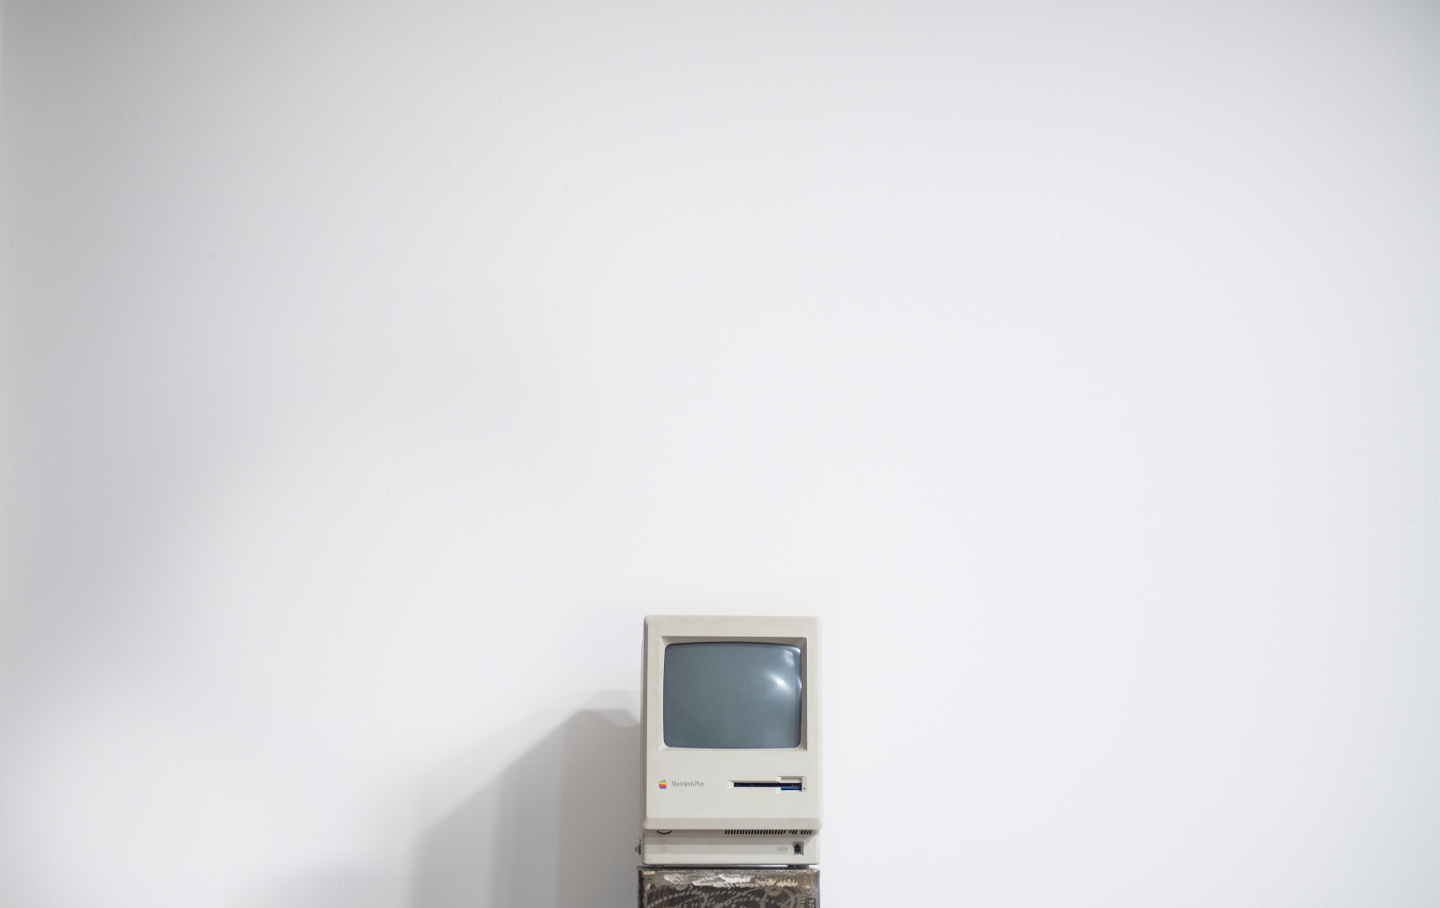
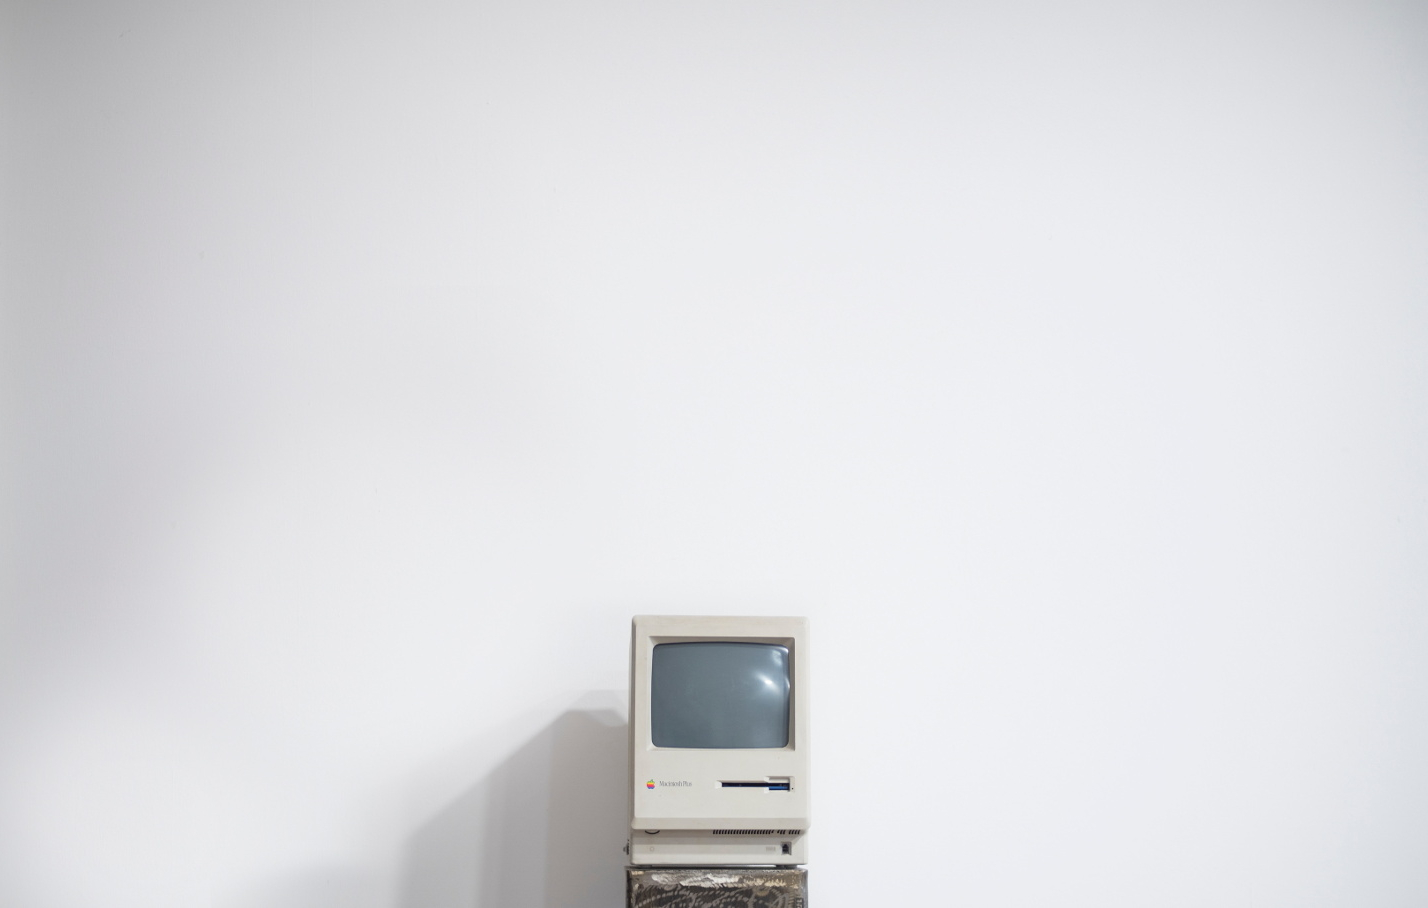
recenter hero section image

Changed region(s): [[0.4314, 0.6784, 0.5854, 1.0], [0.5238, 0.7093, 0.5854, 0.8326]]

diff --git a/assets2/css/scss/sections.scss b/assets2/css/scss/sections.scss
@@ -1,10 +1,7 @@
-
-
 header {
   height: calc(100vh - 56px);
   width: 100vw;
-  margin: 0;
-  // background: linear-gradient(0deg, rgba(40, 40, 40, 0.7), rgba(40, 40, 40, 0.7)), url("../image/Hero\ section/hero-bg.jpg");
+  margin: 0; // background: linear-gradient(0deg, rgba(40, 40, 40, 0.7), rgba(40, 40, 40, 0.7)), url("../image/Hero\ section/hero-bg.jpg");
   background-image: url("../image/Hero\ section/macantosh.jpg");
   background-position: center;
   background-size: cover;
@@ -21,7 +18,6 @@ header {
   div {
     color: #F9F9F9;
   }
-
   .punchline {
     @include bold;
     font-family: $headers-and-stress;
@@ -29,8 +25,6 @@ header {
     text-transform: uppercase;
     color: $black;
   }
-  
-
   .heading-span2 {
     font-family: $bodys-and-content;
     font-size: 0.75rem;
@@ -41,26 +35,22 @@ header {
       color: $black;
       text-align: center;
       letter-spacing: .05rem;
-
     }
   }
 }
 
 // Added style for overall common elements
-.sections-header{
+.sections-header {
   @include bold;
   font-size: 2.8rem;
   text-transform: uppercase;
 }
 
-.content-sections{
+.content-sections {
   padding: 13vh 10vw;
 }
 
 //End of added style for overall common elements
-
-
-
 section#why-cohort-6 {
   background-color: $white;
   color: $black;
@@ -230,11 +220,10 @@ section#our-team {
     flex-direction: row;
     align-items: center;
     justify-content: start;
-    .member-container{
+    .member-container {
       width: 100%;
       display: grid;
       grid-template-columns: 30% 70%;
-
     }
   }
   .team-members a,
@@ -264,31 +253,26 @@ section#our-team {
   .team-member-overlay p {
     margin: 0;
   }
-
-
   .team-member-des {
     display: flex;
     flex-direction: column;
     justify-content: center;
-    padding-left: 5%;
-    // min-width: 250px;
+    padding-left: 5%; // min-width: 250px;
     .team-member-name {
       @include bold;
       font-size: 10px;
-    
     }
-    .social-links{
+    .social-links {
       width: 50%;
       display: flex;
       justify-content: space-between;
-      a{
-        img.team-social-icons{
+      a {
+        img.team-social-icons {
           width: 60%;
         }
       }
     }
   }
-  
   li.team-member .team-member-name {
     font-size: 20px;
   }
@@ -312,52 +296,54 @@ section#contact {
   flex-direction: column;
   align-items: center;
   justify-content: center;
-  /* text-align: center; */
   padding: 0 20% 0 -20%;
-  h3 {
-    text-align: left;
-    padding-left: 0;
-    margin-bottom: 0;
-  }
-  .contain-content {
-    display: flex;
-    flex-direction: row;
-    // justify-content: space-evenly;
-    justify-content: flex-start;
-
-    .contact-main {
-      padding-right: 6%;
+  
+  .container {
+    h3.contact-header {
+      @include bold;
+      text-align: left;
+      padding-left: 0;
+      margin-bottom: 0;
     }
 
-    .contact-main h5,
-    div .contact-add h5 {
-      opacity: 0;
-      margin-bottom: 2px;
-    }
-
-    div {
-      font-size: 0.75rem;
-      font-family: Open Sans;
-      font-style: normal;
-      font-weight: 300;
-      line-height: normal;
-      // padding: 1.5% 0 0 0;
-
-      .contact-social h5 {
-        font-size: 1rem;
-        font-weight: 700;
-      }
-      .contact-icons {
-        width: 30px;
-        padding-right: 10px;
-      }
-    }
-    >div:not(.contact-main) {
+    .contain-content {
       display: flex;
-      flex-direction: column;
+      flex-direction: row; // justify-content: space-evenly;
+      justify-content: flex-start;
+      .contact-main {
+        padding-right: 6%;
+        .contact-text {
+          font-size: .8rem;
+          letter-spacing: .05rem;
+        }
+      }
+      .contact-main h5,
+      div .contact-add h5 {
+        opacity: 0;
+        margin-bottom: 2px;
+      }
       div {
-        padding-top: 0;
-        padding-right: 15px;
+        font-size: 0.75rem;
+        font-family: Open Sans;
+        font-style: normal;
+        font-weight: 300;
+        line-height: normal;
+        .contact-social h5 {
+          font-size: 1rem;
+          font-weight: 700;
+        }
+        .contact-icons {
+          width: 30px;
+          padding-right: 10px;
+        }
+      }
+      div:not(.contact-main) {
+        display: flex;
+        flex-direction: column;
+        div {
+          padding-top: 0;
+          padding-right: 15px;
+        }
       }
     }
   }

diff --git a/index2.html b/index2.html
@@ -714,27 +714,26 @@
 
         <section class="content-sections" id="contact">
             <div class="container">
-                <h3>We love to help</h3>
+                <h3 class="contact-header">We love to help</h3>
                 <div class="contain-content">
                     <div class="contact-main">
                         <!-- <h5>a</h5> -->
-                        <p>If you want to go fast, go alone. If you want to go far, go together. Let us share the burden of
-                            what is holding you back and how we can help you succeed.</p>
+                        <p class = "contact-text">If you want to go fast, go alone. If you want to go far, go together. Let us share the burden of what is holding you back and how we can help you succeed.</p>
                     </div>
                     <div class="">
                         <div class="contact-add">
-                            <!-- <h5>a</h5> -->
-                            <p>info@cohort6productions.com</p>
-                            <!-- <p>+852 9999 9999</p> -->
+                            <a href="mailto:info@cohort6productions.com">
+                                <p>info@cohort6productions.com</p>
+                            </a>
                             <p>Hong Kong SAR</p>
                         </div>
                         <div class="contact-social">
                             <h5>Find Us On</h5>
-                            <img class="contact-icons" src="assets2/image/Social meida icon/medium.svg" />
+                            <!-- <img class="contact-icons" src="assets2/image/Social meida icon/medium.svg" /> -->
                             <img class="contact-icons" src="assets2/image/Social meida icon/linkedin.svg" />
-                            <img class="contact-icons" src="assets2/image/Social meida icon/facebook.svg" />
+                            <!-- <img class="contact-icons" src="assets2/image/Social meida icon/facebook.svg" /> -->
                             <img class="contact-icons" src="assets2/image/Social meida icon/whatsapp.svg" />
-                            <img class="contact-icons" src="assets2/image/Social meida icon/twitter.svg" />
+                            <!-- <img class="contact-icons" src="assets2/image/Social meida icon/twitter.svg" /> -->
                         </div>
                     </div>
                 </div>

diff --git a/assets2/css/styles.css b/assets2/css/styles.css
@@ -396,47 +396,51 @@ section#contact {
   flex-direction: column;
   align-items: center;
   justify-content: center;
-  /* text-align: center; */
   padding: 0 20% 0 -20%;
 }
-section#contact h3 {
+section#contact .container h3.contact-header {
+  font-weight: 700;
   text-align: left;
   padding-left: 0;
   margin-bottom: 0;
 }
-section#contact .contain-content {
+section#contact .container .contain-content {
   display: flex;
   flex-direction: row;
   justify-content: flex-start;
 }
-section#contact .contain-content .contact-main {
+section#contact .container .contain-content .contact-main {
   padding-right: 6%;
 }
-section#contact .contain-content .contact-main h5,
-section#contact .contain-content div .contact-add h5 {
+section#contact .container .contain-content .contact-main .contact-text {
+  font-size: 0.8rem;
+  letter-spacing: 0.05rem;
+}
+section#contact .container .contain-content .contact-main h5,
+section#contact .container .contain-content div .contact-add h5 {
   opacity: 0;
   margin-bottom: 2px;
 }
-section#contact .contain-content div {
+section#contact .container .contain-content div {
   font-size: 0.75rem;
   font-family: Open Sans;
   font-style: normal;
   font-weight: 300;
   line-height: normal;
 }
-section#contact .contain-content div .contact-social h5 {
+section#contact .container .contain-content div .contact-social h5 {
   font-size: 1rem;
   font-weight: 700;
 }
-section#contact .contain-content div .contact-icons {
+section#contact .container .contain-content div .contact-icons {
   width: 30px;
   padding-right: 10px;
 }
-section#contact .contain-content > div:not(.contact-main) {
+section#contact .container .contain-content div:not(.contact-main) {
   display: flex;
   flex-direction: column;
 }
-section#contact .contain-content > div:not(.contact-main) div {
+section#contact .container .contain-content div:not(.contact-main) div {
   padding-top: 0;
   padding-right: 15px;
 }
